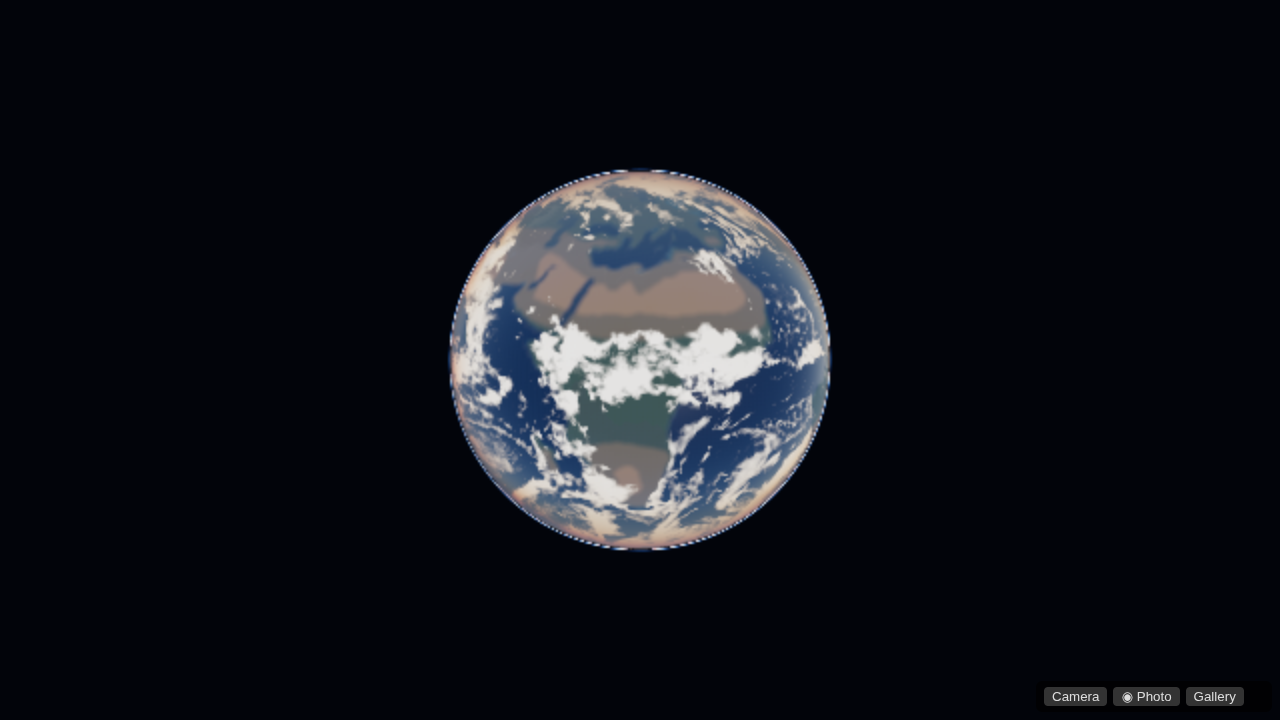
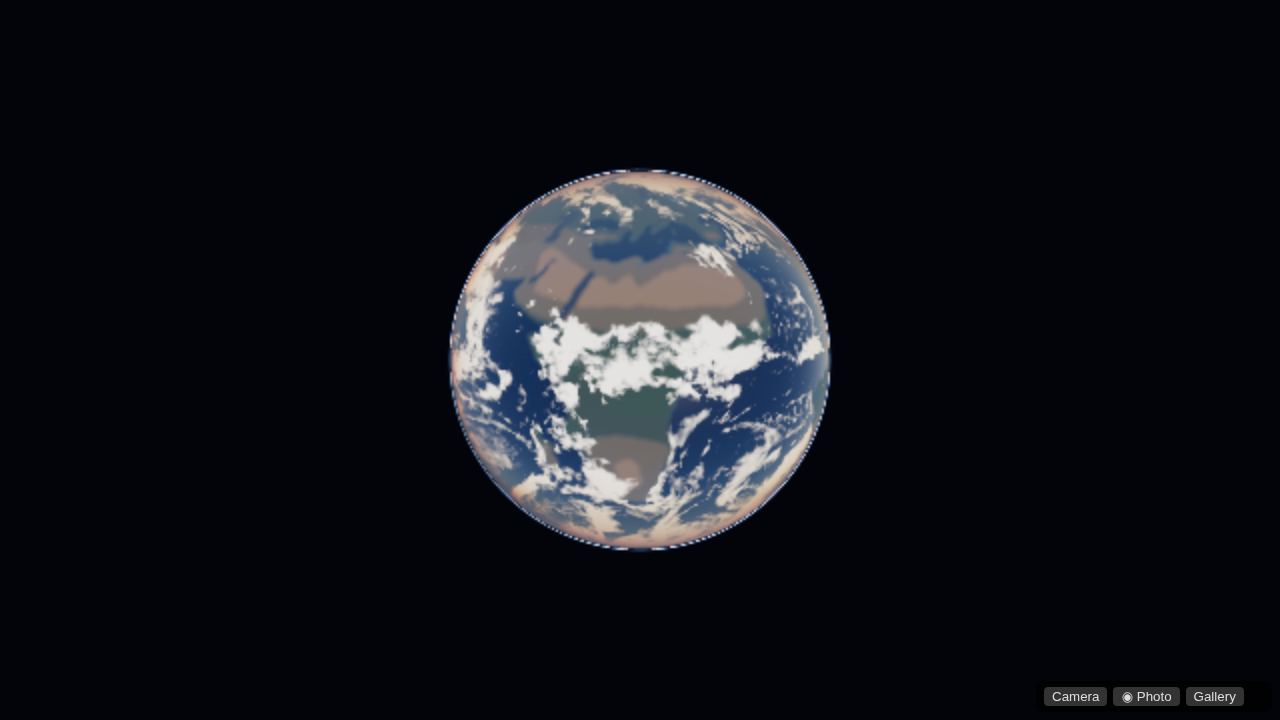
fix: drive orbit landMask from the cover alpha (T-0254)
The orbit fragment was replacing albedo and leaving the coarse height
mask in place, so the Caspian and Black Sea kept ocean Fresnel and
roughness. The cover alpha is that mask. Recaptured after-home.png
and after-africa.png on this head.

Changed region(s): [[0.3438, 0.2444, 0.6562, 0.7639]]

diff --git a/src/render/globe/orbitDraw.ts b/src/render/globe/orbitDraw.ts
@@ -14,6 +14,10 @@ export function orbitFrag(cloudAlbedo: number, invTau: string, invPi: string) {
     float ow = clamp(uOrbit, 0.0, 1.0) * presentW;
     vec4 alb = texture2D(uOrbitTex, ouv);
     diffuseColor.rgb = mix(diffuseColor.rgb, alb.rgb, ow);
+    // Alpha is the open-ocean mask (0 ocean, 1 land or enclosed lake). The coarse
+    // mesh still treats the Caspian depression as ocean, and the later Fresnel,
+    // roughness and metalness reads use landMask. Pull that mask from the map.
+    landMask = mix(landMask, alb.a, ow);
     if (uOrbitDeck > 0.5) {
       float c = texture2D(uOrbitCloud, ouv).r;
       float deck = smoothstep(0.08, 0.55, c);
@@ -40,5 +44,6 @@ export function uploadOrbitAlbedo(slot: { value: THREE.Texture }, empty: THREE.T
     const prev = slot.value;
     slot.value = tex;
     if (prev && prev !== empty) prev.dispose();
+    (window as unknown as { __orbitCover?: boolean }).__orbitCover = true;
   });
 }

diff --git a/tasks/evidence/T-0254/README.md b/tasks/evidence/T-0254/README.md
@@ -1,6 +1,6 @@
 # T-0254 frames
 
-SwiftShader, Chrome, 1280×720, main `8051065f` for the before frames and `grokbot-2/orbit-biome` for the after frames. URL `?view=globe&alt=23572733&latlon=…&stages=1&shot=1&tier=5`. Frame time about 1 s. No page error.
+SwiftShader, Chrome, 1280×720. Before frames are from main `8051065f`. After frames were recaptured on `grokbot-2/orbit-biome` after the cover alpha was written into `landMask`. Home is `?view=globe&alt=23572733&stages=1&shot=1&tier=5&trees=v2&workers=0`. Africa adds `latlon=6,20`. Frame time about 1 s. No page error.
 
 `ref-apollo17.png` is Apollo 17 AS17-148-22727, NASA, 7 December 1972. https://images.nasa.gov/details/as17-148-22727
 
